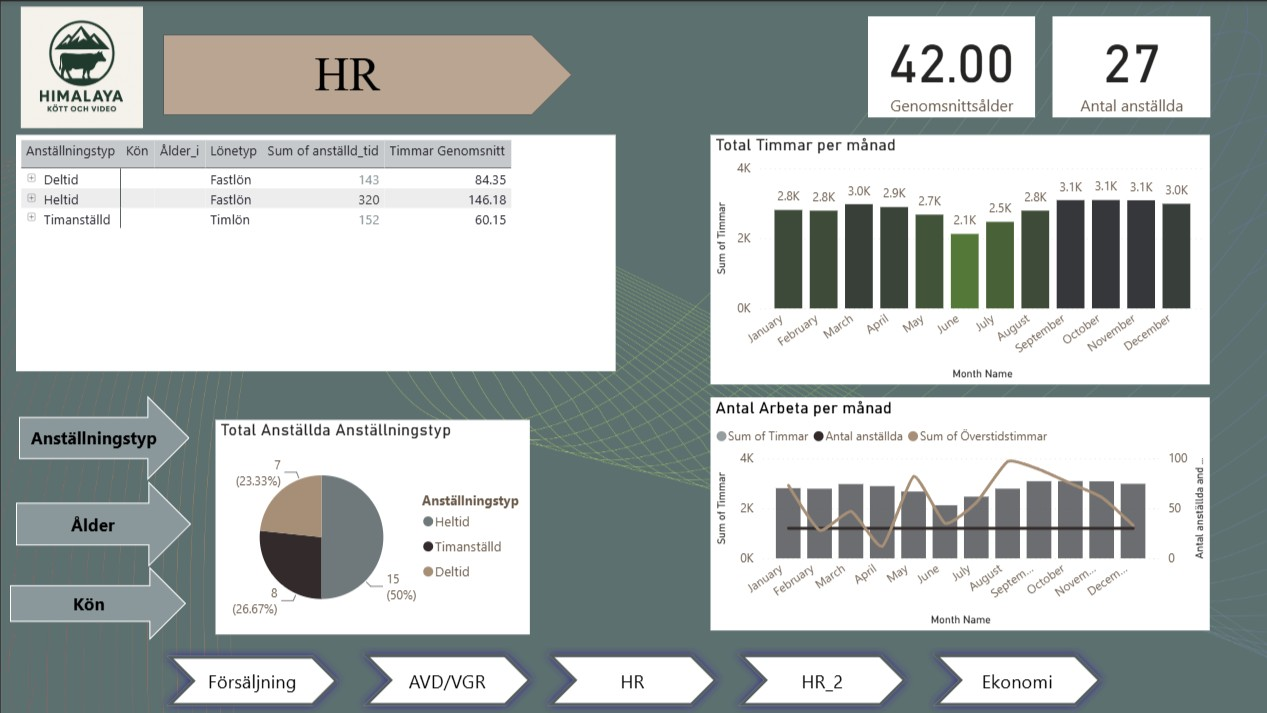
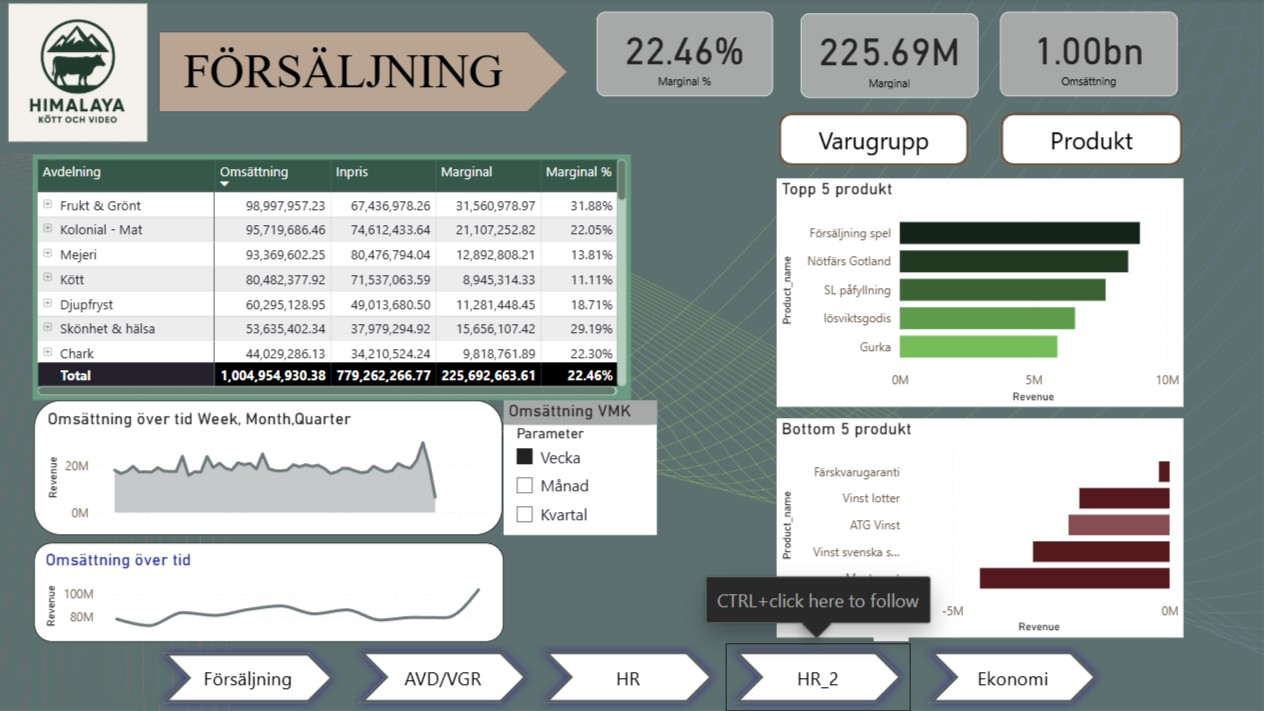
Project 3 is the Databricks flow, not the Pandas one
The screenshots went in before the text did. Shiann's answers close the gap.

- `pandas` becomes `databricks`, with her own words for the question, the
  work, the hardest part and the outcome. Tools, month and title follow:
  Databricks, PySpark, Event Hubs and Delta Lake, okt 2026.
- The skills table's "Kod" row pointed at `pandas` and listed Pandas. It
  now reads Python, PySpark, Databricks and points at the project that
  actually shows them. `site.spec.ts` would have caught the dangling id,
  which is what that test is for.
- Power BI set: the Försäljning page is back as image 1, so the project
  about a sales report leads with the sales report. The HR page and
  Freddys Bikes follow; the happiness dashboard is out, its Christmas
  background was working against it.

Confirmed with Shiann: the companies are invented teaching data, and the
SQL screenshots are practice schemas rather than real records. The Bank
assignment and the NetOnNet warehouse are two course projects shown as
one for now.

Claude-Session: https://claude.ai/code/session_012FXJiGWcMVepnTCrcHKYeA

diff --git a/src/app/data/site.ts b/src/app/data/site.ts
@@ -78,8 +78,10 @@ export interface Project {
 
 /**
  * Ordered as an argument rather than by date: the finished report first, then
- * the model underneath it, then the same job done in code. Project 1's "what
- * I'd do differently" leads directly into project 2.
+ * the model underneath it, then the same data arriving as a live stream.
+ * Project 1's "what I'd do differently" leads directly into project 2, and
+ * project 3 is where the modelling meets data that does not sit still.
+ * Chronological order happens to match, which is a convenience, not the reason.
  */
 export const PROJECTS: readonly Project[] = [
   {
@@ -103,9 +105,9 @@ export const PROJECTS: readonly Project[] = [
     ],
   },
   {
-    id: 'pandas',
-    year: 'apr 2026',
-    tools: ['Python', 'Pandas', 'VS Code', 'Git'],
+    id: 'databricks',
+    year: 'okt 2026',
+    tools: ['Databricks', 'PySpark', 'Azure Event Hubs', 'Delta Lake'],
     images: [
       '/img/project-db-1.jpg',
       '/img/project-db-2.png',
@@ -144,7 +146,7 @@ export interface SkillRow {
 export const SKILL_ROWS: readonly SkillRow[] = [
   { areaKey: 'skills.row.reporting', tools: 'Power BI, DAX, Power Query', projectId: 'powerbi' },
   { areaKey: 'skills.row.modelling', tools: 'SQL, T-SQL, stjärnschema',   projectId: 'warehouse' },
-  { areaKey: 'skills.row.code',      tools: 'Python, Pandas, Git',        projectId: 'pandas' },
+  { areaKey: 'skills.row.code',      tools: 'Python, PySpark, Databricks', projectId: 'databricks' },
 ];
 
 export interface TimelineRow {
